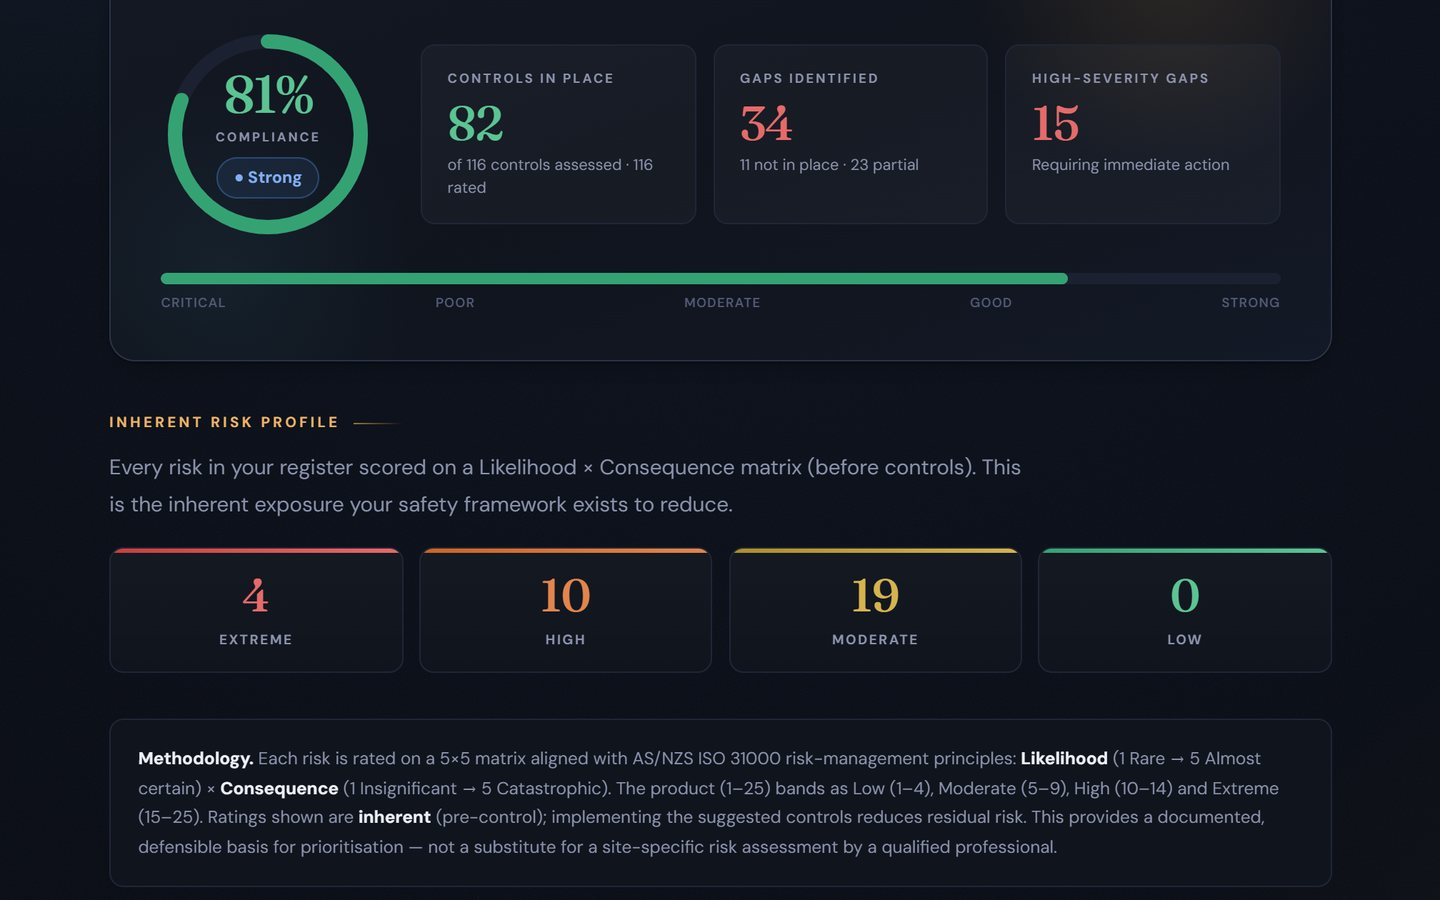
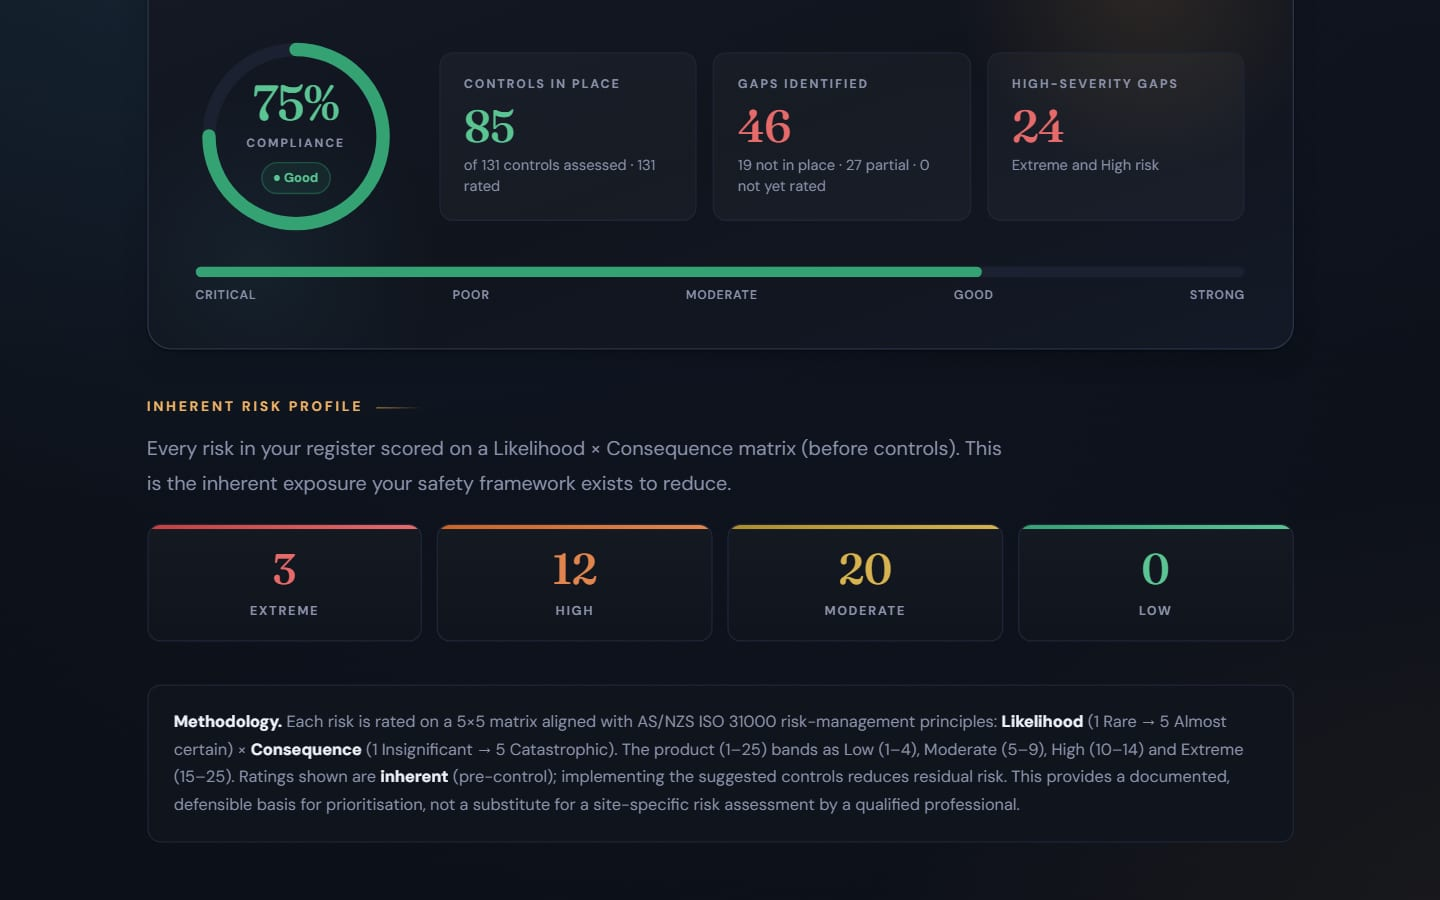
CC-WS1: WellSafe card live (Try WellSafe -> /wellsafe), screenshot retaken from the current tool

diff --git a/index.html b/index.html
@@ -475,7 +475,7 @@
         <span class="index-line">Violence and aggression self-assessment for venues</span>
       </a>
       <a href="#wellsafe">
-        <span class="status status--soon">Coming soon</span>
+        <span class="status status--live">Live</span>
         <span class="index-name">WellSafe</span>
         <span class="index-line">Risk assessment for wellness operators</span>
       </a>
@@ -564,16 +564,16 @@
 
     <article class="product" id="wellsafe" data-rise>
       <div class="product-body">
-        <p class="meta"><span class="status status--soon">Coming soon</span> <span>Built for REST Group</span></p>
+        <p class="meta"><span class="status status--live">Live</span> <span>Built for REST Group</span></p>
         <h3>WellSafe</h3>
         <p class="descriptor">Risk assessment for wellness operators</p>
         <p class="blurb">A risk and safety navigator for wellness operators. Choose the services you run, rate your controls and get a scored report with the gaps to close.</p>
         <dl class="facts">
           <dt>For</dt><dd>Saunas, ice baths, float tanks, steam rooms and more</dd>
           <dt>Method</dt><dd>Each risk scored likelihood by consequence on a 5 by 5 matrix</dd>
-          <dt>Status</dt><dd>Coming soon with REST Group</dd>
+          <dt>Status</dt><dd>Live with REST Group</dd>
         </dl>
-        <p class="action"><a class="text-link" href="https://www.restgroup.com.au/training#wellsafe" target="_blank" rel="noopener">Register interest at REST Group<span class="sr-only"> (opens in a new tab)</span> <span class="arrow" aria-hidden="true">&rarr;</span></a></p>
+        <p class="action"><a class="text-link" href="https://www.restgroup.com.au/wellsafe" target="_blank" rel="noopener">Try WellSafe<span class="sr-only"> (opens in a new tab)</span> <span class="arrow" aria-hidden="true">&rarr;</span></a></p>
       </div>
       <figure class="product-media">
         <div class="frame">
